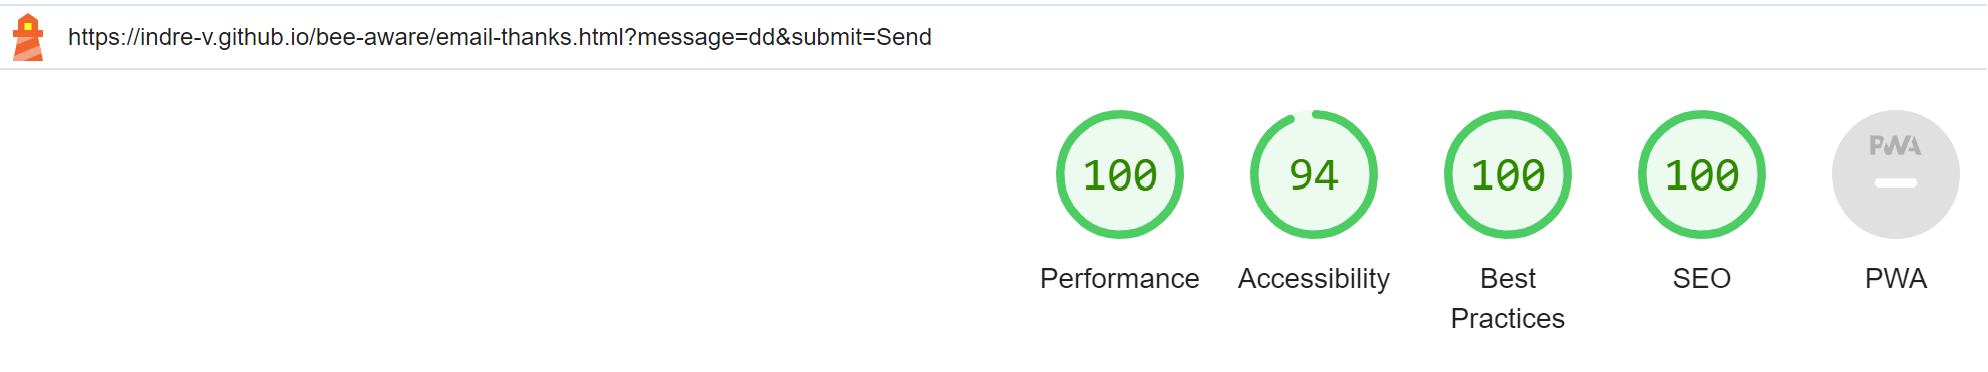
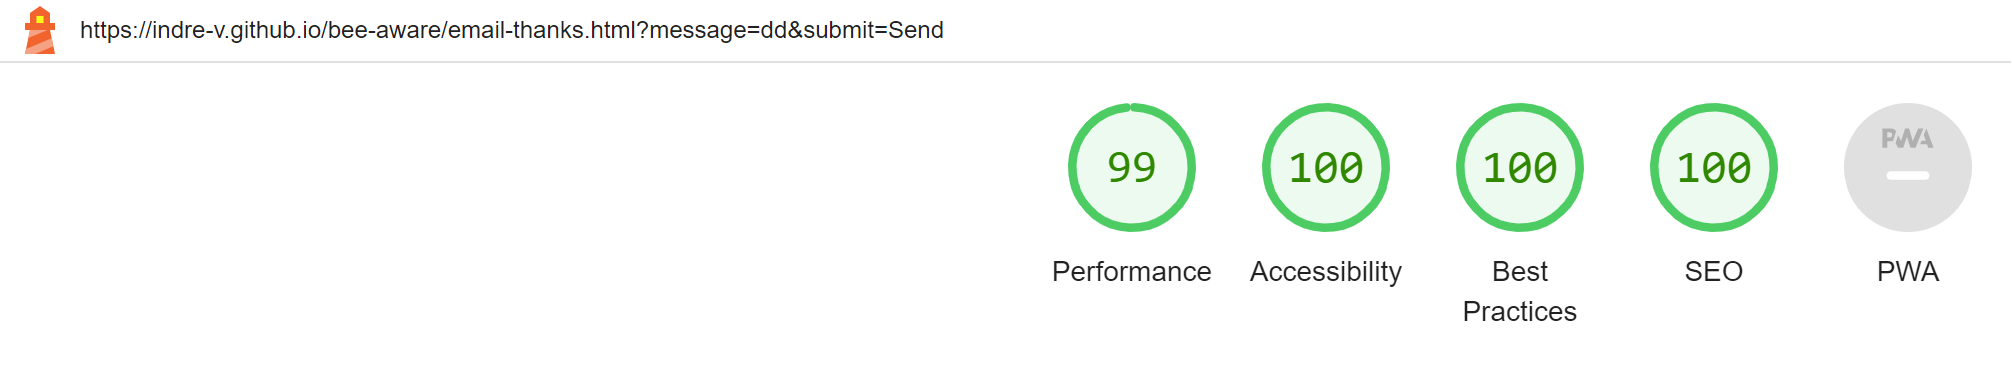
add: Lighthouse test results

diff --git a/index.html b/index.html
@@ -248,7 +248,7 @@
         <div class="contact-box column">
             <div class="info-box text-center" id="letter-box">
                 <h3 class="space-around">Subscribe to our monthly newsletter</h3>
-                <form action="newsletter-thanks.html" method="GET" class="form">
+                <form action="newsletter-thanks.html" method="GET" target="_blank" class="form">
                     <div class="input-box">
                         <label for="name">Your Name*</label>
                         <input type="text" id="name" placeholder="Bumble Bee" required>

diff --git a/README.md b/README.md
@@ -47,6 +47,7 @@ Users can subscribe to newsletter and contact campaign managers directly.
     - [CSS](#css)
   - [Accessibility Testing](#accessibility-testing)
   - [User Story Testing](#user-story-testing)
+  - [Lighthouse Testing](#lighthouse-testing)
   - [Bugs Fixed](#bugs-fixed)
 - [Deployment](#deployment)
 - [Credits](#credits)
@@ -372,6 +373,42 @@ In addition to WAVE testing, I have tested my webpage for color contrast accessi
 | As a user, I want to be able to easily contact content creators for feedback or changes.              | Contact box available for users to contact creators                 | Yes  |
 | As a user, I want to be able to connect on social media to spread awareness                           | Social Media link available at the bottom of the page               | Yes  |
 
+[Back to top](#contents)
+
+## Lighthouse Testing
+
+- Bee-Aware has been tested in the [Chrome Dev Tools](https://developer.chrome.com/docs/devtools/) and [Microsoft Edge Dev Tools](https://docs.microsoft.com/en-us/microsoft-edge/devtools-guide-chromium/open/?tabs=cmd-Windows) using Lighthouse Testing tool which inspects and scores the website for the following criteria:
+  - Performance - how quickly a website loads and how quickly users can access it.
+  - Accessibility - test analyzes how well people who use assistive technologies can use your website.
+  * Best Practices - checks whether thepage is built on the modern standards of web development.
+  * SEO - checks if the website is optimised for search engine result rankings.
+
+* Tests for Desktop and Mobile on Lighthouse Chrome:
+  ![Lighthouse-Desktop-Index-Chrome](docs/wave-report.png "Lighthouse-Desktop-Index-Chrome")
+  ![Lighthouse-Mobile-Index-Chrome](docs/wave-report.png "Lighthouse-Mobile-Index-Chrome")
+
+* Tests for Desktop and Mobile on Lighthouse Edge:
+  ![Lighthouse-Desktop-Index-Edge](docs/wave-report.png "Lighthouse-Desktop-Index-Edge")
+  ![Lighthouse-Desktop-Index-Chrome](docs/wave-report.png "Lighthouse-Desktop-Index-Chrome")
+
+For extra assurance, I have also tested the contact thank you pages. This was very beneficial as it highlighted one issue which I documented in the _Bugs Fixed_ section.
+
+<details><summary><b>Final Lighthouse Test Results for Contact Thank You pages</b></summary>
+
+![Lighthouse-Desktop-Chrome-Email-Thanks](docs/lighthouse-desktop-chrome-email-thanks.png)
+![Lighthouse-Mobile-Chrome-Email-Thanks](docs/lighthouse-mobile-chrome-email-thanks.png)
+![Lighthouse-Desktop-Edge-Email-Thanks](docs/lighthouse-desktop-edge-email-thanks.png)
+![Lighthouse-Mobile-Edge-Email-Thanks](docs/lighthouse-mobile-edge-email-thanks.png)
+
+![Lighthouse-Desktop-Chrome-Newsletter-Thanks](docs/lighthouse-desktop-chrome-newsletter-thanks.png)
+![Lighthouse-Mobile-Chrome-Newsletter-Thanks](docs/lighthouse-mobile-chrome-newsletter-thanks.png)
+![Lighthouse-Desktop-Edge-Newsletter-Thanks](docs/lighthouse-desktop-edge-newsletter-thanks.png)
+![Lighthouse-Mobile-Edge-Newsletter-Thanks](docs/lighthouse-mobile-edge-newsletter-thanks.png)
+
+</details><br/>
+
+[Back to top](#contents)
+
 ## Bugs Fixed
 
 -Error popped up regarding incorrect labels in the contact form during wave testing. I rectified the label ids, however the error came up again as the label ids were used twice. I have fixed the issue and then received a pass.
@@ -390,11 +427,11 @@ In addition to WAVE testing, I have tested my webpage for color contrast accessi
 
 </details><br/>
 
-\*While Lighthouse testing email and newsletter thank you pages on both browsers, I have noticed that the accessibility score was only 94. It has transpired that aria label was missing for Home icon on thank you pages. Once the aria label was added, the accessibility score went up to 100.
+- While Lighthouse testing email and newsletter thank you pages on both browsers, I have noticed that the accessibility score was only 94. It has transpired that aria label was missing for Home icon on thank you pages. Once the aria label was added, the accessibility score went up to 100.
 
 <details><summary><b>Accessibility Score Issue - Lighthouse</b></summary>
 
-![Color Contrast Accessibility Error](docs/lighthouse-desktop-chrome-email-thanks.png.png)
+![Lighthouse Accessibility Score Issue ](docs/lighthouse-desktop-chrome-email-thanks-error.png)
 
 </details><br/>
 
